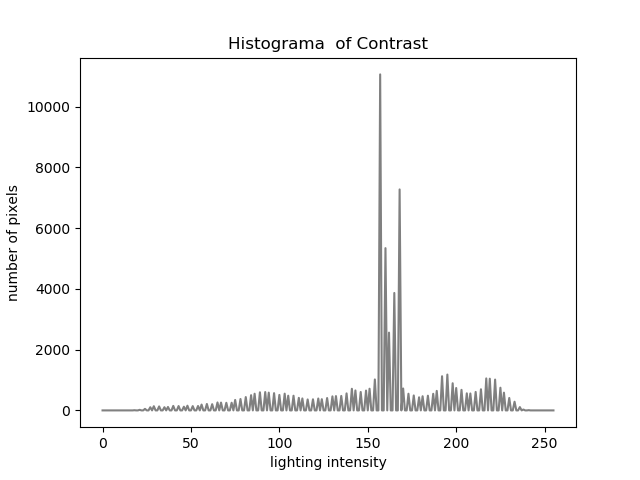
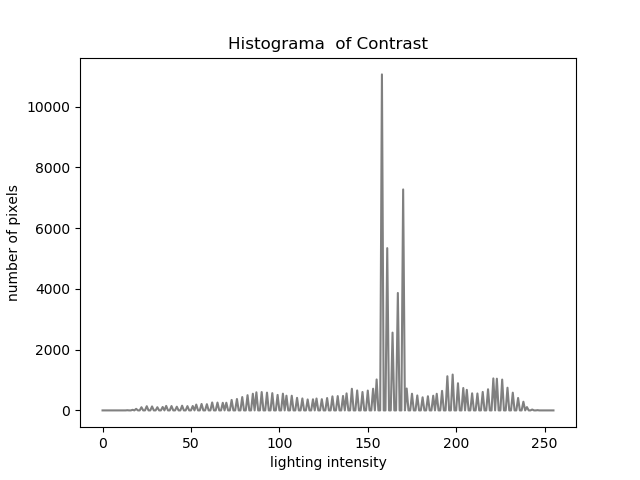
feat: ajustando parametros y mostrando histograma de outliers

Changed region(s): [[0.3438, 0.1562, 0.8438, 0.875], [0.2188, 0.8438, 0.3125, 0.875]]

diff --git a/Practica 2/ejercicio2.py b/Practica 2/ejercicio2.py
@@ -1,32 +1,45 @@
-import cv2
 import sys
 import cv2 as cv
 import numpy as np
 from matplotlib import pyplot as plt
 
-img = cv2.imread('contr2.jpg', cv2.IMREAD_GRAYSCALE)
-cv2.imshow('Original Imagen', img)
+# loading image
+img = cv.imread('contr2.jpg', cv.IMREAD_GRAYSCALE)
+cv.imshow('Original Imagen', img)
 
 if img.size == 0:
     sys.exit("Error: the image has not been correctly loaded.")
 
+# Dimensions
 heigth = img.shape[0]
 width = img.shape[1]
 
+# Creating matrix
 Contrast = np.zeros((heigth, width, 1),np.uint8)
 
 for x in range(0, heigth, 1):
     for y in range(0, width, 1):
     	Contrast[x][y] = img[x][y]
 
-for x in range(0, 15, 1):
-    for y in range(0, 15, 1):
+# Adding outliers
+for x in range(0, 10, 1):
+    for y in range(0, 10, 1):
     	Contrast[x][y] = 0
 
 cv.imshow('Contrast',Contrast)
 
+# Generating histogram
+hist = cv.calcHist([Contrast], [0], None, [256], [0, 256])
+plt.title("Histograma  of Contrast") 
+plt.plot(hist, color='gray' )
+plt.xlabel('lighting intensity')
+plt.ylabel('number of pixels')
+plt.savefig('histogram2_2.png')
+plt.show()
+
 filename = 'resultado2.png'
 
+# Saving the image 
 cv.imwrite(filename, Contrast) 
 
 print ("Presione una tecla para cerrar")
@@ -34,8 +47,3 @@ cv.waitKey(0)
 cv.destroyAllWindows()
 cv.waitKey(1) 
 exit()
-
-cv2.waitKey(0)
-
-
-cv2.destroyAllWindows()

diff --git a/Practica 2/ejercicio1.py b/Practica 2/ejercicio1.py
@@ -30,8 +30,8 @@ Contrast = np.zeros((heigth, width, 1),np.uint8)
 # Contrast Stretching
 a = 0
 b = 255
-c = 50
-d =	144
+c = 52
+d =	142
 
 temp = (b - a)/(d - c)
 
